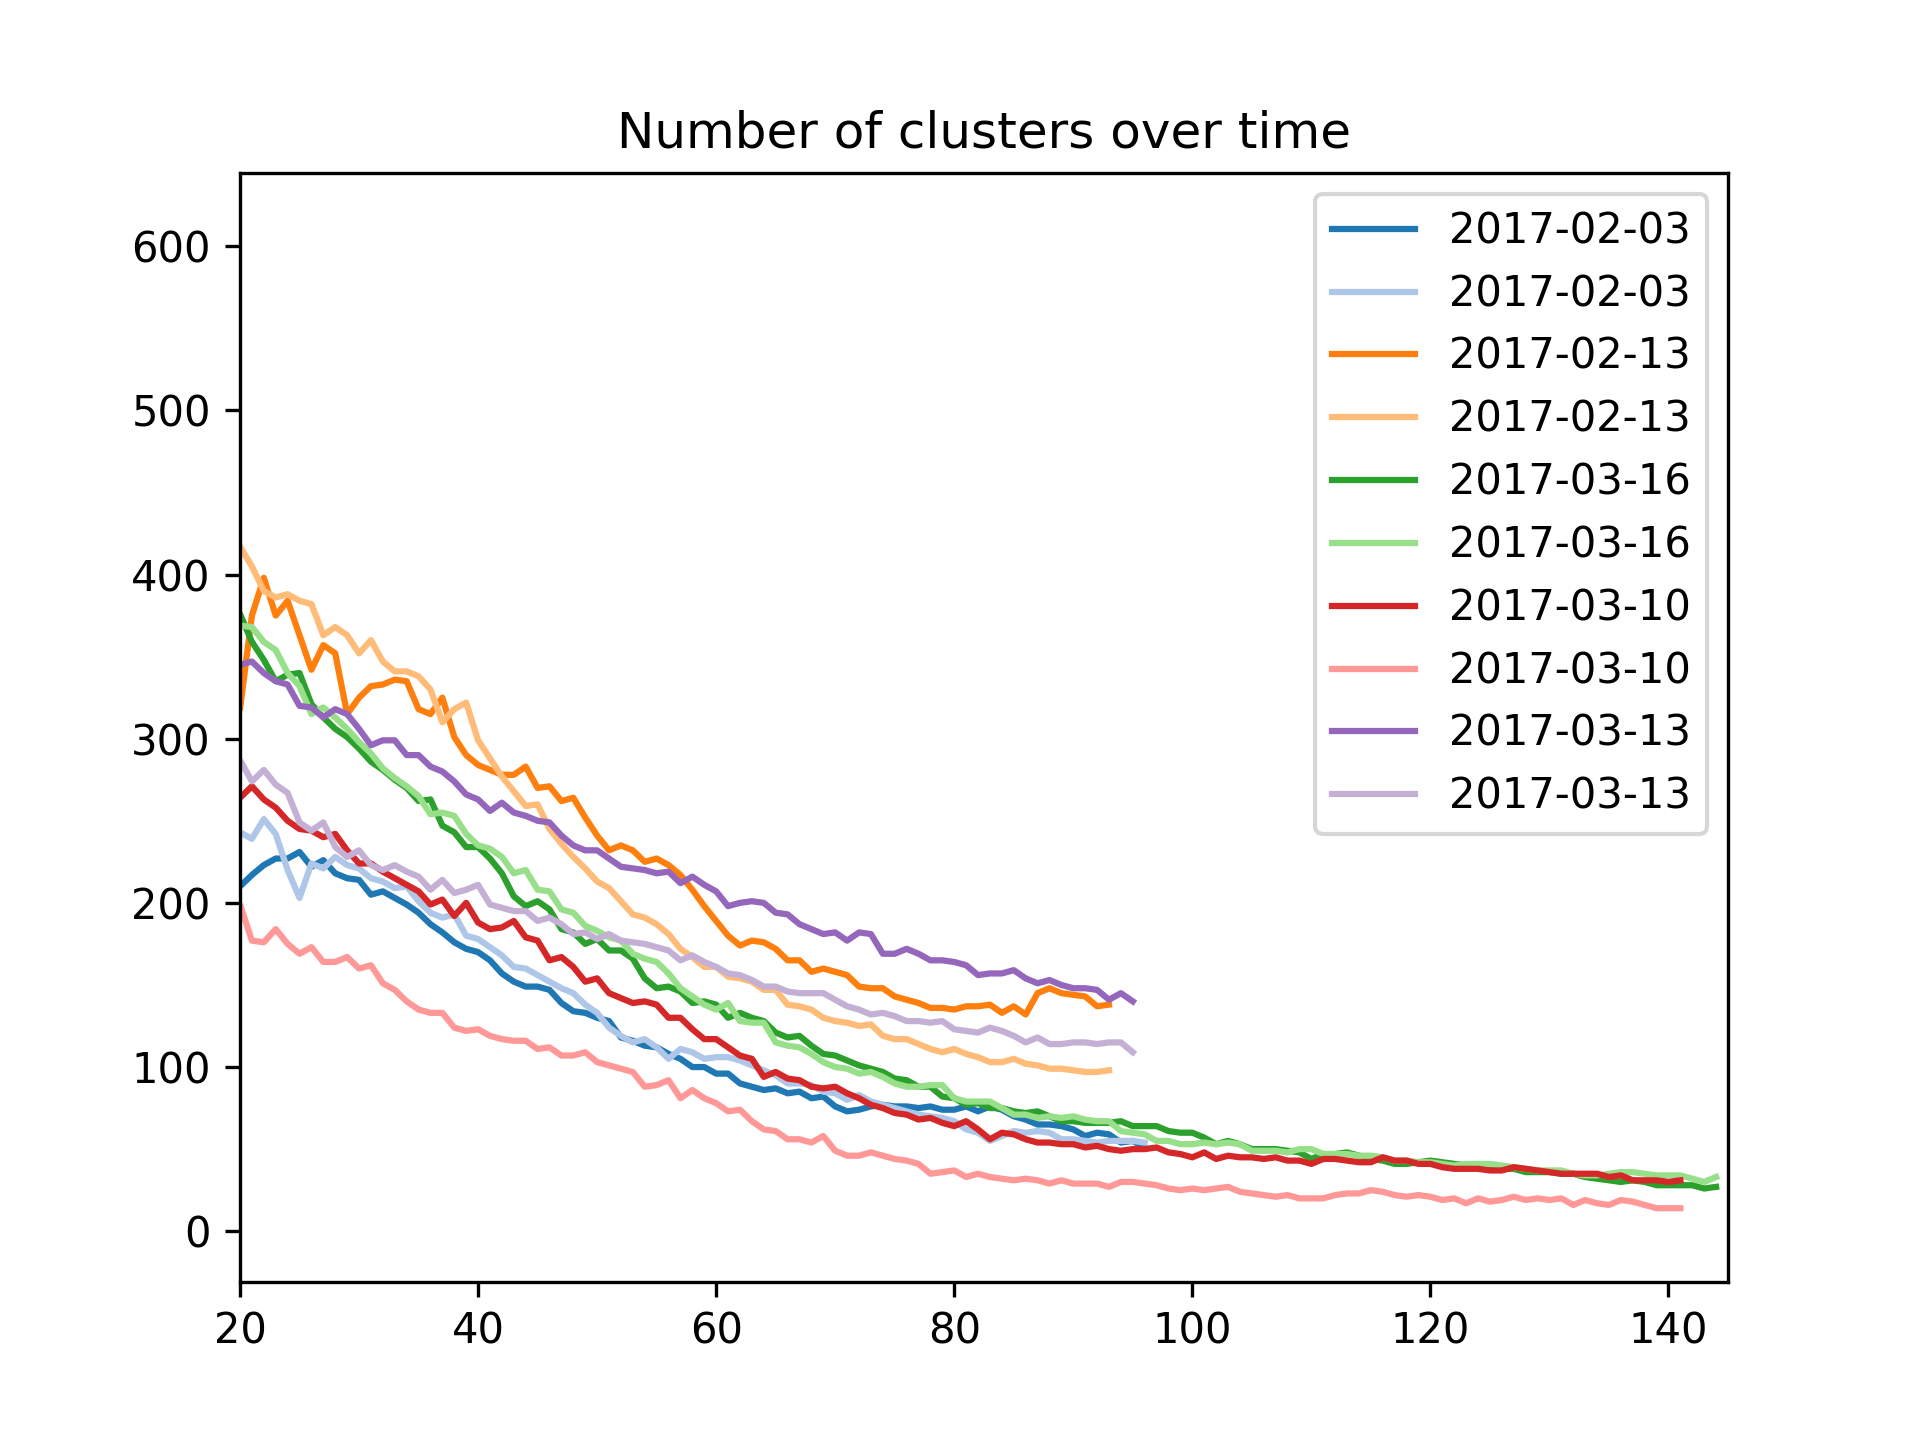
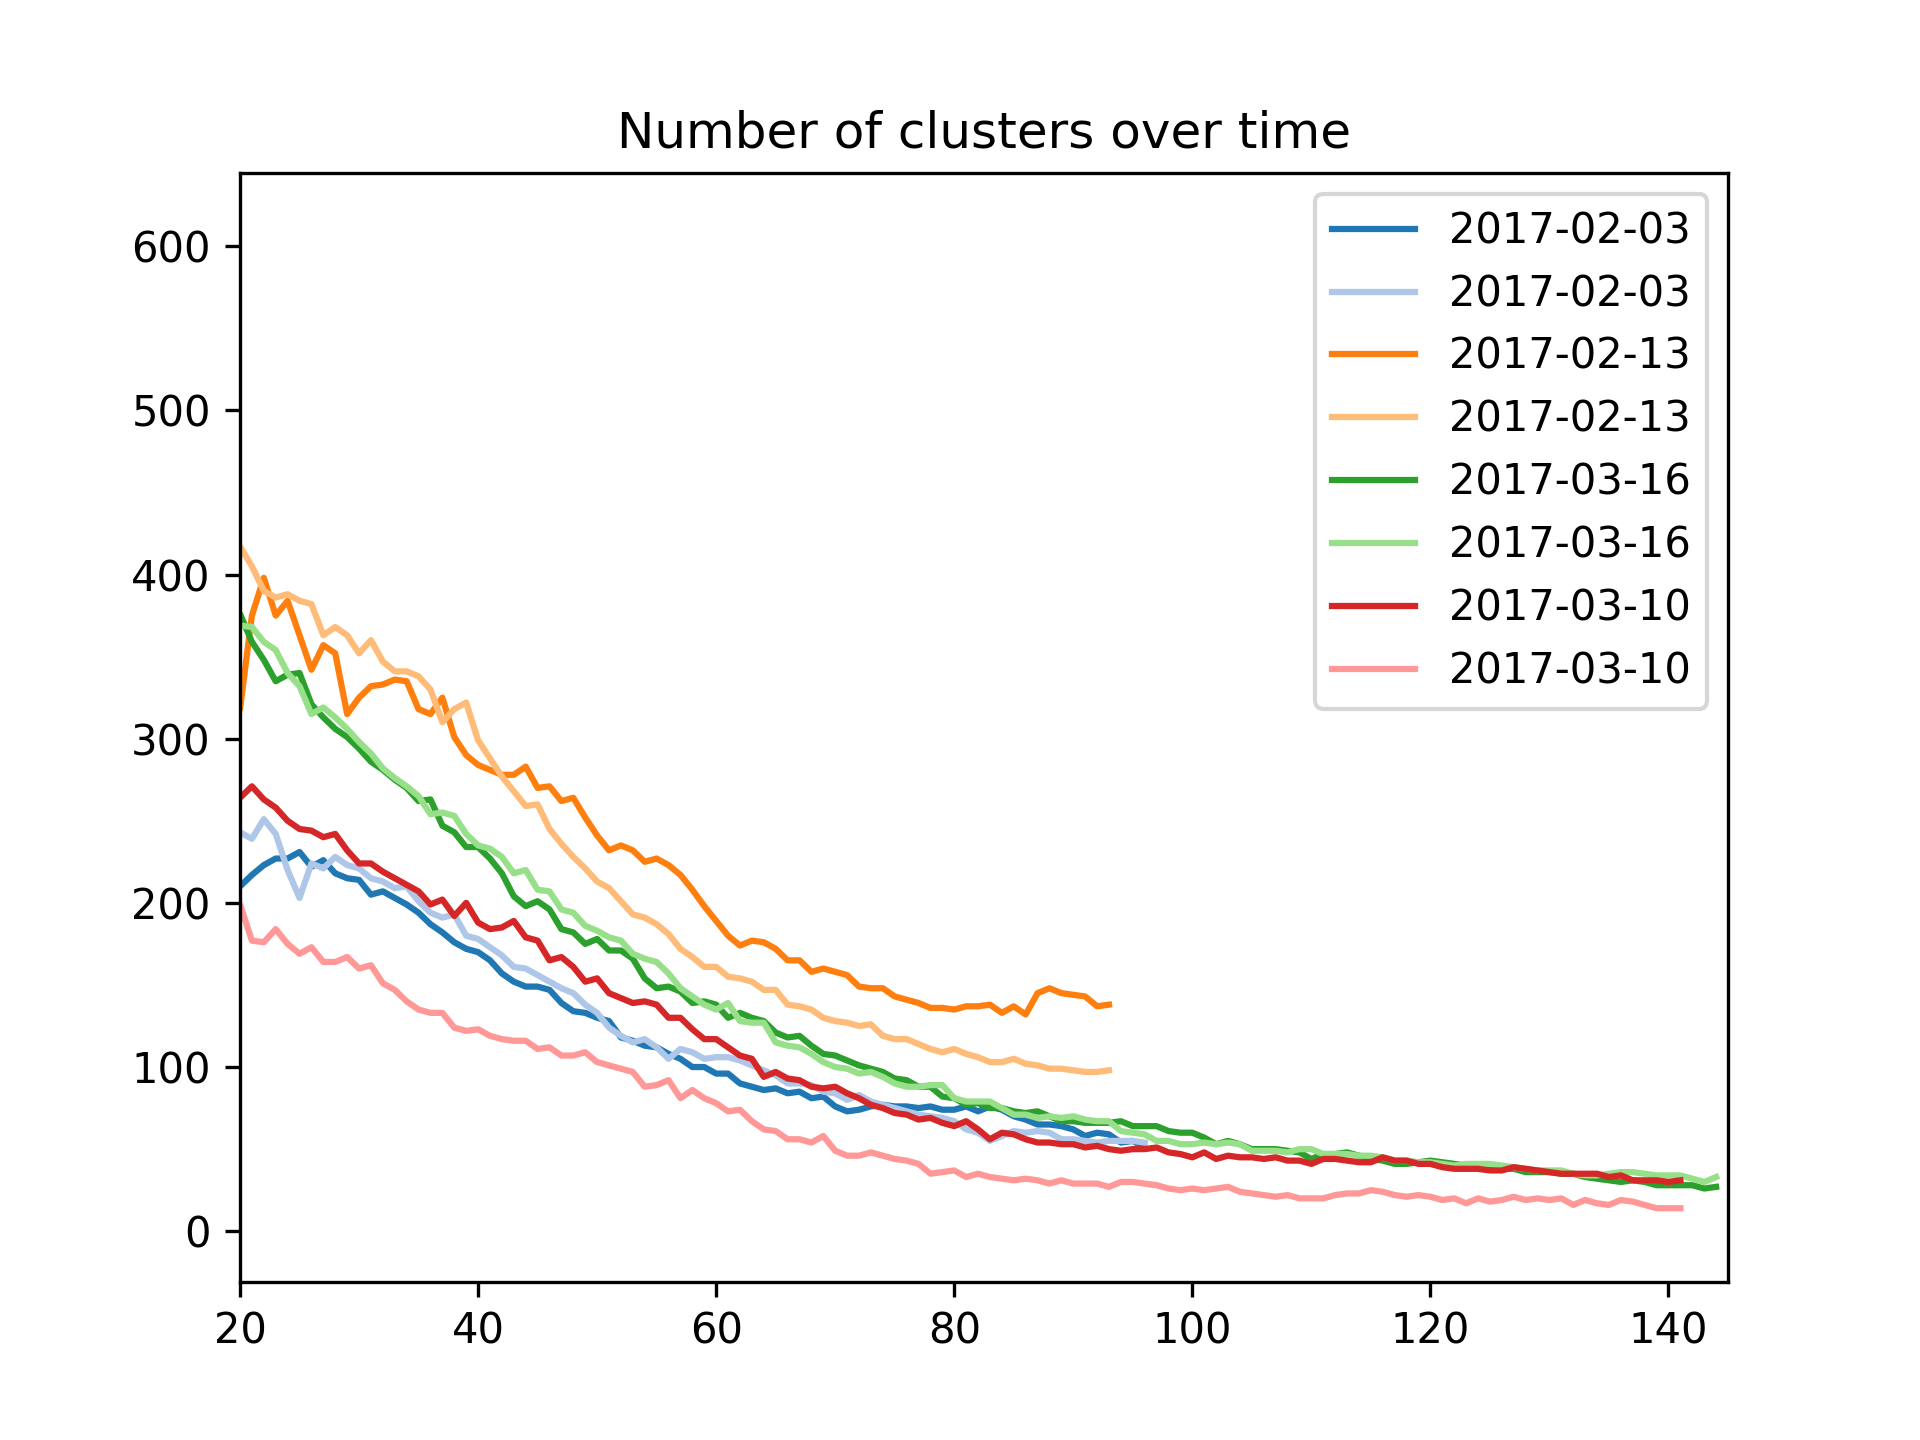
Plots with bad experiment removed added

diff --git a/data_analysis/pre-processing/pre_process_multi_plots.py b/data_analysis/pre-processing/pre_process_multi_plots.py
@@ -25,7 +25,7 @@ experiment = 'RAW_data/2017-02-13_sphere_timelapse_2/'
 # exp_date = '2017-02-13'
 # exp_date = '2017-03-10'
 # exp_date = '2017-03-16'
-multi_dates = ['2017-02-03', '2017-02-13', '2017-03-16', '2017-03-10', '2017-03-13']
+multi_dates = ['2017-02-03', '2017-02-13', '2017-03-16', '2017-03-10']
 # multi_dates = ['2017-02-03', '2017-02-13', '2017-03-16', '2017-03-10']
 folder = 'RAW/Timelapse/sphere_timelapse_useful_wells/'
 folder_3 = 'sphere_timelapse/'
@@ -50,7 +50,7 @@ time_list = [str(x).zfill(3) for x in time_array]
 well_loc = 's06'
 
 multi_well = ['s073', 's074']
-multi_well_multi_dates = [['s11', 's12'], ['s27', 's28'], ['s073', 's074'], ['s04', 's05'], ['s001', 's003']]
+multi_well_multi_dates = [['s11', 's12'], ['s27', 's28'], ['s073', 's074'], ['s04', 's05']]
 # multi_well_multi_dates = [['s11', 's12'], ['s27', 's28'], ['s073', 's074'], ['s04', 's05']]
 
 plt_num = 0
@@ -93,11 +93,10 @@ for j in range(len(multi_dates)):
         # Plot mean size of cluster
         plt.figure(1)
         # plt.colormaps('tab20')
-        plt.xlim(20,145)
+        plt.xlim(1,145)
         plt.plot(mean_areas/189, color = cm.colors[plt_num])
         plt.legend(('2017-02-03', '2017-02-03', '2017-02-13', '2017-02-13',
-                   '2017-03-16', '2017-03-16', '2017-03-10', '2017-03-10',
-                   '2017-03-13', '2017-03-13', '2017-03-13'))
+                   '2017-03-16', '2017-03-16', '2017-03-10', '2017-03-10'))
         plt.title("Mean Areas")
         plt.savefig(basedir + 'clusters/data_analysis/pre-processing/Mean_areas_' + 'multi' + '.png', dpi=300)
         # plt.show()
@@ -106,10 +105,9 @@ for j in range(len(multi_dates)):
         # Plot total coverage of clusters over array
         plt.figure(2)
         plt.xlim(20,145)
-        plt.plot(total_areas/189, color = cm.colors[plt_num])
+        plt.plot(total_areas/(1025*1344), color = cm.colors[plt_num])
         plt.legend(('2017-02-03', '2017-02-03', '2017-02-13', '2017-02-13',
-                   '2017-03-16', '2017-03-16', '2017-03-10', '2017-03-10',
-                   '2017-03-13', '2017-03-13', '2017-03-13'))
+                   '2017-03-16', '2017-03-16', '2017-03-10', '2017-03-10',))
         plt.title("Total 2D area")
         plt.savefig(basedir + 'clusters/data_analysis/pre-processing/Total_2D_cell_area_' + 'multi' + '.png', dpi=300)
         # plt.show()
@@ -117,11 +115,10 @@ for j in range(len(multi_dates)):
 
         # Plot number of clusters
         plt.figure(3)
-        plt.xlim(20,145)
+        plt.xlim(1,145)
         plt.plot(number_clusters, color = cm.colors[plt_num])
         plt.legend(('2017-02-03', '2017-02-03', '2017-02-13', '2017-02-13',
-                   '2017-03-16', '2017-03-16', '2017-03-10', '2017-03-10',
-                   '2017-03-13', '2017-03-13', '2017-03-13'))
+                   '2017-03-16', '2017-03-16', '2017-03-10', '2017-03-10'))
         plt.title("Number of clusters over time")
         plt.savefig(basedir + 'clusters/data_analysis/pre-processing/Number_clusters_' + 'multi' + '.png', dpi=300)
         # plt.show()
@@ -142,11 +139,10 @@ for j in range(len(multi_dates)):
 
         # Plot total 3D
         plt.figure(4)
-        plt.xlim(20,145)
+        plt.xlim(1,145)
         plt.plot(tot_3D_volume, color = cm.colors[plt_num])
         plt.legend(('2017-02-03', '2017-02-03', '2017-02-13', '2017-02-13',
-                   '2017-03-16', '2017-03-16', '2017-03-10', '2017-03-10',
-                   '2017-03-13', '2017-03-13', '2017-03-13'))
+                   '2017-03-16', '2017-03-16', '2017-03-10', '2017-03-10'))
         plt.ylim(0,10000)
         plt.title("Total 3D Volume")
         plt.savefig(basedir + 'clusters/data_analysis/pre-processing/Total_3D_Number_cells_' + 'multi' + '.png', dpi=300)
@@ -155,11 +151,10 @@ for j in range(len(multi_dates)):
 
         # Plot mean 3D volume of cluster
         plt.figure(5)
-        plt.xlim(20,145)
+        plt.xlim(1,145)
         plt.plot(mean_3D_volume, color = cm.colors[plt_num])
         plt.legend(('2017-02-03', '2017-02-03', '2017-02-13', '2017-02-13',
-                   '2017-03-16', '2017-03-16', '2017-03-10', '2017-03-10',
-                   '2017-03-13', '2017-03-13', '2017-03-13'))
+                   '2017-03-16', '2017-03-16', '2017-03-10', '2017-03-10'))
         plt.savefig(basedir + 'clusters/data_analysis/pre-processing/Mean_volume_cluster_' + 'multi' + '.png', dpi=300)
         # plt.show()
         # plt.clf()
